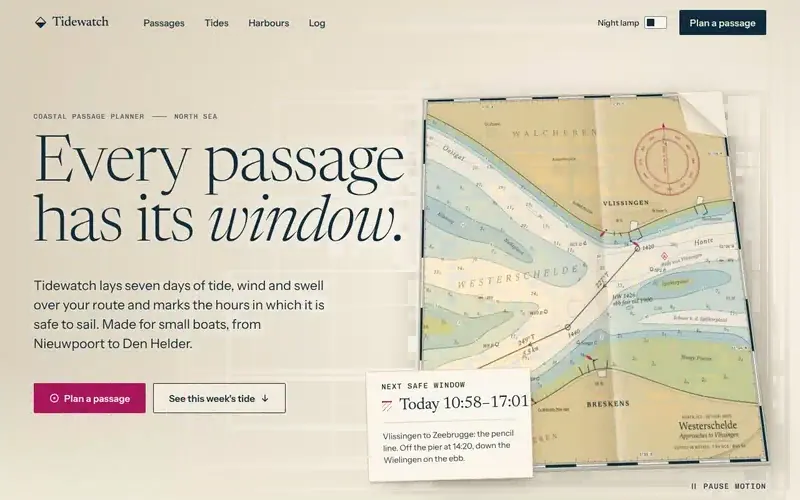
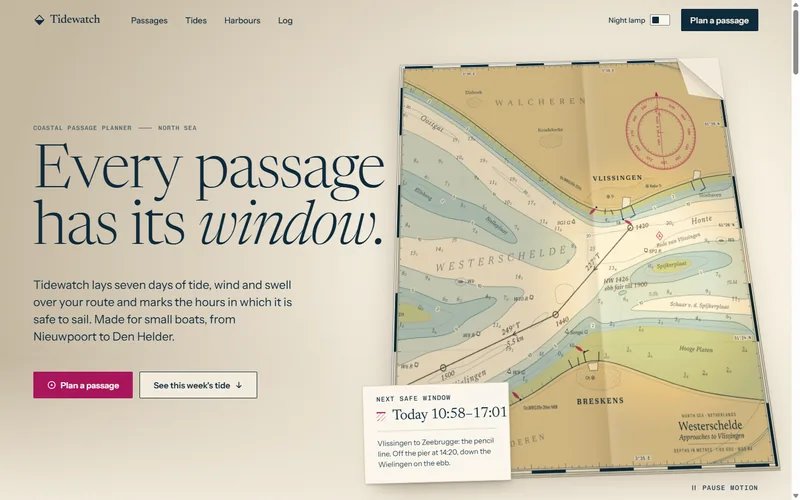
Level 3: a lamp you can see, a larger sheet that leans to the hand, the night re-inked
Judged on a real GPU (Radeon RX 9070 XT) in three rounds by two strict judges
(art director 5.5 -> 6.5 -> 7.0, owner 6.5 -> 7.0 -> 6.5).

- The day lamp has a pool with an edge (lit to 40 percent, a rim, then the room
  in shade), so it reads as a lamp, not a vignette; the words lose their pale halo.
- The sheet lies in front of the screen, so its near edge is wider than level 2's
  chart, and it is laid higher so the whole sheet stays in the window.
- The view leans toward the pointer (the desk's perspective origin on a spring,
  about 6 degrees); the slip moves against it as its own layer.
- At night the sheet is dim red paper with pale rose print: every name, sounding
  and the cartouche read anywhere on the sheet; the turned corner shows its red back.
- The phone keeps level 2's last sentence, second button and the slip's note;
  the sheet fits inside the screen; day labels keep their date only.
- No hard seam under the hero, no empty band above the week, a softer veil over
  the days to come, the lamp over the hour no longer a blob, a softer fold highlight.
- New GPU previews: level-3.webp and level-3-still.webp.

diff --git a/examples/levels/3/level.css b/examples/levels/3/level.css
@@ -295,7 +295,10 @@
   /* the sheet on the table, seen from the reader's chair */
   --l3-lay: 27deg;                              /* how far the sheet lies back */
   --l3-turn: -1.4deg;                           /* and how it lies turned: a sheet is never quite square */
-  --l3-sink: -28px;                             /* a little under the screen, so no part of it ever comes nearer */
+    /* the sheet lies a little in front of the screen: its near edge is then wider than level 2's flat chart,
+       so the first screen holds more chart, not less. The plates are drawn at --l3-k times their size, so
+       the small enlargement this gives stays sharp */
+    --l3-sink: 70px;
   --l3-eye: 1450px;                             /* how far the eye is from the screen */
   --l3-eye-at: 26% -46%;                        /* and where it is: left of the sheet, above the table */
   --l3-curl: 5.5rem;                            /* the corner that has turned up */
@@ -305,45 +308,77 @@
   /* the lamp. The sheet is multiplied by one light: warm cream in the pool, and outside it a step down to
      about the table's own brightness, so the sheet stays the lightest paper on the table; the middle of the
      pool is warmed (soft light), never bleached. By night: a dim, deep red pool, the rest faintly readable */
-  --l3-lit: #fff1d9;
-  --l3-rim: #fcefdc;
-  --l3-dim: #f0ebe2;
-  --l3-glow: rgba(255, 176, 84, 0.5);
-  --l3-table: rgba(255, 252, 244, 0.78);        /* the same lamp on the table round the sheet */
-  --l3-room: rgba(110, 84, 40, 0.16);           /* and the room outside its reach */
+    /* A lamp reads as a lamp, not as a vignette, because its pool has an edge: the shade cuts the light off.
+       So the pool is bright and warm right up to a rim, and past the rim the paper drops a clear step into
+       the room's shade (about 12 percent darker), not a slow fade. */
+    --l3-lit: #fff6e4;
+    --l3-rim: #f7e5c4;
+    --l3-dim: #e2d5bf;
+    --l3-glow: rgba(255, 170, 70, 0.62);
+    --l3-table: rgba(255, 249, 234, 0.85);      /* the same lamp on the table round the sheet */
+    --l3-room: rgba(96, 70, 30, 0.3);           /* and the room outside its reach: clearly in shade */
   --l3-cast: rgba(56, 38, 10, 0.3);             /* the sheet's shadow on the table */
   --l3-contact: rgba(56, 38, 10, 0.26);         /* where it touches the table */
   --l3-cut: #d6c8ab;                            /* the cut edge of the paper, towards the reader */
   --l3-back: #ece2cd;                           /* the back of the paper, on the turned-up corner */
   --l3-crease-dark: rgba(92, 66, 22, 0.12);     /* the fold: one side turned from the light */
-  --l3-crease-light: rgba(255, 255, 255, 0.5);  /* and one side towards it */
+    --l3-crease-light: rgba(255, 255, 255, 0.24); /* and one side towards it (at 0.5 it read as a white streak) */
   --l3-ink-2: #263b49;                          /* small print on paper: darker than --color-text-muted, so 12 px reads */
-  --l3-pool-c: rgba(255, 186, 96, 0.36);        /* the lamp over the hour the tide story reads */
+  --l3-pool-c: rgba(255, 186, 96, 0.2);         /* the lamp over the hour the tide story reads: a faint warmth, never a blob */
   --l3-glint: rgba(255, 186, 96, 0.5);          /* the lamp caught by a card under the hand */
   --l3-sheet: #fbf8f0;                          /* the tide sheet laid on the table */
   --l3-dusk: rgba(48, 30, 8, 0.34);             /* the dialog: the lamp turned down */
   --l3-dusk-2: rgba(36, 22, 4, 0.62);
 }
+/* By night the room outside the pool is kept a lighter red (dim #a88a7e, was #5e4740): the lamp adds light to
+   a dim sheet, it is not the only light. The turned-up corner shows the back of the paper in the red light
+   (#7a2c1a), not a black hole */
 @media (prefers-color-scheme: dark) {
   :root:not([data-theme="light"]) {
-    --l3-paper: #84260f; --l3-lit: #ffffff; --l3-rim: #d09c8b; --l3-dim: #5e4740; --l3-glow: rgba(255, 92, 52, 0.42);
+    --l3-paper: #8c2a12; --l3-lit: #ffffff; --l3-rim: #e2b2a2; --l3-dim: #a88a7e; --l3-glow: rgba(255, 92, 52, 0.42);
     --l3-table: rgba(150, 38, 14, 0.62); --l3-room: rgba(0, 0, 0, 0.32); --l3-cast: rgba(0, 0, 0, 0.62); --l3-contact: rgba(0, 0, 0, 0.7);
-    --l3-cut: #2a0d07; --l3-back: #3b150c; --l3-crease-dark: rgba(0, 0, 0, 0.2); --l3-crease-light: rgba(255, 150, 110, 0.06);
-    --l3-ink-2: #e2cdbf; --l3-pool-c: rgba(166, 45, 23, 0.5); --l3-glint: rgba(255, 106, 77, 0.16); --l3-sheet: #1a110e;
+    --l3-cut: #3a120a; --l3-back: #7a2c1a; --l3-crease-dark: rgba(0, 0, 0, 0.2); --l3-crease-light: rgba(255, 150, 110, 0.06);
+    --l3-ink-2: #e2cdbf; --l3-pool-c: rgba(166, 45, 23, 0.3); --l3-glint: rgba(255, 106, 77, 0.16); --l3-sheet: #1a110e;
     --l3-dusk: rgba(6, 2, 1, 0.66); --l3-dusk-2: rgba(2, 1, 0, 0.86);
   }
 }
 :root[data-theme="dark"] {
-  --l3-paper: #84260f; --l3-lit: #ffffff; --l3-rim: #d09c8b; --l3-dim: #5e4740; --l3-glow: rgba(255, 92, 52, 0.42);
+  --l3-paper: #8c2a12; --l3-lit: #ffffff; --l3-rim: #e2b2a2; --l3-dim: #a88a7e; --l3-glow: rgba(255, 92, 52, 0.42);
   --l3-table: rgba(150, 38, 14, 0.62); --l3-room: rgba(0, 0, 0, 0.32); --l3-cast: rgba(0, 0, 0, 0.62); --l3-contact: rgba(0, 0, 0, 0.7);
-  --l3-cut: #2a0d07; --l3-back: #3b150c; --l3-crease-dark: rgba(0, 0, 0, 0.2); --l3-crease-light: rgba(255, 150, 110, 0.06);
-  --l3-ink-2: #e2cdbf; --l3-pool-c: rgba(166, 45, 23, 0.5); --l3-glint: rgba(255, 106, 77, 0.16); --l3-sheet: #1a110e;
+  --l3-cut: #3a120a; --l3-back: #7a2c1a; --l3-crease-dark: rgba(0, 0, 0, 0.2); --l3-crease-light: rgba(255, 150, 110, 0.06);
+  --l3-ink-2: #e2cdbf; --l3-pool-c: rgba(166, 45, 23, 0.3); --l3-glint: rgba(255, 106, 77, 0.16); --l3-sheet: #1a110e;
   --l3-dusk: rgba(6, 2, 1, 0.66); --l3-dusk-2: rgba(2, 1, 0, 0.86);
 }
+/* The sheet by night, re-inked. Dark ink on a red sheet only reads where the lamp is brightest; outside the
+   pool it sank into the paper. So at night the sheet is a dim red paper and its print is pale rose, as a
+   chart's light print shows under a red lamp: every word reads anywhere on the sheet, and the lamp's pool
+   is the brighter red that lights the paper under it. Only on the sheet: the rest of the page keeps its tokens. */
+:root[data-theme="dark"] .sheet {
+    --l3-paper: #5c1a0c; --l3-dim: #9a7a6e; --l3-rim: #e8c0b0;
+    --color-chart-ink: #f3cdbf; --color-chart-contour: #e09a84; --color-chart-edge: #e6a892;
+    --color-chart-pencil: #fff0e6; --color-chart-magenta: #ff9c7e;
+}
+@media (prefers-color-scheme: dark) {
+    :root:not([data-theme="light"]) .sheet {
+        --l3-paper: #5c1a0c; --l3-dim: #9a7a6e; --l3-rim: #e8c0b0;
+        --color-chart-ink: #f3cdbf; --color-chart-contour: #e09a84; --color-chart-edge: #e6a892;
+        --color-chart-pencil: #fff0e6; --color-chart-magenta: #ff9c7e;
+    }
+}
+
+/* the space between "Today" and the week: the section's own padding is enough; the pinned stage and its head
+   no longer add theirs on top (together they left an empty band of 170 px above the week) */
+.tides:has(.story.is-live) { padding-top: var(--space-6); }
+.story.is-live .story__stage { padding-top: 0; }
 
 /* ---- the chart as a sheet of paper lying on the table under the lamp ---------------------------------- */
 .hero::after { display: none; }               /* level 2's lamp is a fixed glow; this one hangs over the sheet */
-.hero::before { background: radial-gradient(75% 95% at 74% 52%, transparent 35%, var(--l3-room) 100%); }
+.hero::before {
+    background: radial-gradient(75% 95% at 74% 52%, transparent 35%, var(--l3-room) 100%);
+    /* the room's shade fades out before the hero ends, so the page below never starts at a hard seam */
+    -webkit-mask-image: linear-gradient(to bottom, #000 72%, transparent 100%);
+    mask-image: linear-gradient(to bottom, #000 72%, transparent 100%);
+}
 .hero__scene { overflow: visible; -webkit-mask-image: none; mask-image: none; container-type: size; }
 .hero__scene::after { display: none; }        /* level 2's fold lies on the screen; this one lies in the paper */
 .desk { position: absolute; inset: 0; perspective: var(--l3-eye); perspective-origin: var(--l3-eye-at); pointer-events: none; }
@@ -393,7 +428,9 @@
 }
 .sheet__lamp {
   mix-blend-mode: multiply;
-  background: radial-gradient(ellipse 22% 21% at 50% 50%, var(--l3-lit) 0%, var(--l3-lit) 28%, var(--l3-rim) 54%, var(--l3-dim) 84%) var(--l3-dim);
+    /* the pool holds its light out to about half its radius, then the shade's rim brings it down over a
+       short band (54 to 80 percent): the edge you can point at, which makes it a lamp */
+    background: radial-gradient(ellipse 22% 21% at 50% 50%, var(--l3-lit) 0%, var(--l3-lit) 40%, var(--l3-rim) 60%, var(--l3-dim) 80%) var(--l3-dim);
 }
 .sheet__glow {
   mix-blend-mode: soft-light;
@@ -484,8 +521,15 @@
 /* where the sheet lies: on a wide screen right of the words, its near edge along the foot of the hero */
 @media (min-width: 60.0625rem) {
   /* it starts right of the headline, so the words never run over its edge */
+    /* base.css gives the words a halo of page colour, for a chart that runs under them. Here the sheet stays
+       right of the words, and the room round the lamp is a shade darker than the page, so that halo would
+       show as a pale glow round every letter: off */
+    .hero h1, .lead { text-shadow: none; }
   .hero__scene {
     top: calc(var(--size-header) + var(--space-5)); bottom: var(--space-6);
+      /* the sheet lies in front of the screen (--l3-sink), so its near edge comes lower than the scene's foot:
+         it is laid this far up, so the whole sheet and the "Pause motion" line under it stay in the window */
+      --l3-bottom: 4.25rem;
     left: calc(max(var(--size-gutter), (100% - var(--size-content)) / 2) + var(--text-display) * 5.9 + var(--space-3));
     right: calc(max(var(--size-gutter), (100% - var(--size-content)) / 2) - var(--space-4));
   }
@@ -500,7 +544,8 @@
 /* on a phone the words are shorter and keep one button (the header has the other). The page marks a phone
    as html.is-narrow (before the first paint, and again when the width changes), because a width rule here
    is also matched for a moment while Chromium takes a full-page picture, which then lost the second button */
-html.is-narrow :is(.lead__more, .hero__actions .btn--line) { display: none; }
+/* (Level 3 used to drop the last sentence and the second button on a phone. A level keeps everything of the
+   level below, and level 2 shows both, so they stay; the sheet lies below them.) */
 
 /* ---- one control stops what moves by itself (the lamp's swing, the cards' lean): WCAG 2.2.2. The page
    keeps the choice (the scene kit's key, so the whole gallery follows it) ---- */
@@ -541,9 +586,10 @@ html.is-narrow :is(.lead__more, .hero__actions .btn--line) { display: none; }
 /* ---- the week, told as you scroll. level.js marks the story .is-live (motion on, script running, the table
    closed), pins its stage, walks a cursor through the week and writes which day is current; without it the
    steps are a list. The heading, the note and the table button stay with the week while it is pinned. ---- */
-:root { --color-veil: rgba(251, 248, 240, 0.78); }
-@media (prefers-color-scheme: dark) { :root:not([data-theme="light"]) { --color-veil: rgba(13, 7, 6, 0.8); } }
-:root[data-theme="dark"] { --color-veil: rgba(13, 7, 6, 0.8); }
+/* the days still to come lie under a veil that leaves them as a faint pencil line, still readable as data (at 0.78 / 0.8 they read as missing) */
+:root { --color-veil: rgba(251, 248, 240, 0.6); }
+@media (prefers-color-scheme: dark) { :root:not([data-theme="light"]) { --color-veil: rgba(13, 7, 6, 0.58); } }
+:root[data-theme="dark"] { --color-veil: rgba(13, 7, 6, 0.58); }
 
 .tt { margin: 0 0 var(--space-7); }
 /* the week is a sheet of chart paper on the table: a neat line, a soft shadow, the lamp over the hour */
@@ -566,7 +612,9 @@ html.is-narrow :is(.lead__more, .hero__actions .btn--line) { display: none; }
 
 .story.is-live { height: calc(100vh + 7 * 40vh); height: calc(100svh + 7 * 40svh); }
 .story.is-live .story__stage {
-  position: sticky; top: 0; display: grid; align-content: center; height: 100vh; height: 100svh; padding-block: var(--space-4);
+    /* the stage starts at its top, not centred: centred, it left an empty band of half a screen between
+       "Today at Vlissingen" and the week before the stage was pinned */
+    position: sticky; top: 0; display: grid; align-content: start; height: 100vh; height: 100svh; padding-block: var(--space-4);
 }
 .story.is-live .section__head { margin-bottom: var(--space-4); padding-top: var(--space-4); }
 .story.is-live .tides__bar { align-items: center; margin-bottom: var(--space-5); }
@@ -593,7 +641,7 @@ html.is-narrow :is(.lead__more, .hero__actions .btn--line) { display: none; }
 .story.is-live .tide__veil { display: block; position: absolute; inset: 0; overflow: hidden; pointer-events: none; }
 .tide__shade, .tide__pool { position: absolute; top: 0; bottom: 0; left: 0; will-change: transform; }
 .tide__shade { width: 200%; background: linear-gradient(to right, transparent 0 50%, var(--color-veil) 53%, var(--color-veil)); }
-.tide__pool { width: 34%; margin-left: -17%; background: radial-gradient(closest-side, var(--l3-pool-c), color-mix(in oklab, var(--l3-pool-c), transparent 62%) 52%, transparent); }
+.tide__pool { width: 18%; margin-left: -9%; background: radial-gradient(closest-side, var(--l3-pool-c), color-mix(in oklab, var(--l3-pool-c), transparent 62%) 52%, transparent); }
 .tide__read.is-flipped { left: auto; right: var(--space-1); }
 .story.is-live .tide__days span[data-current] { font-weight: 700; }
 .story.is-live .tide__cursor { display: block; position: absolute; top: 0; bottom: 0; left: 0; width: 0; border-left: var(--size-border) solid var(--color-text); pointer-events: none; will-change: transform; }
@@ -729,7 +777,7 @@ html.is-narrow :is(.lead__more, .hero__actions .btn--line) { display: none; }
   .hero__scene { inset: auto 0 0 0; height: var(--l3-reveal); --l3-height: 31rem; --l3-right: max(var(--size-gutter), 50% - 16rem); --l3-bottom: var(--space-4); }
   .hero__slip { display: block; left: max(var(--size-gutter), 50% - 18rem); bottom: var(--space-7); width: 13.75rem; padding: var(--space-3) var(--space-4) var(--space-4); }
   .hero__slip-time { font-size: var(--text-md); gap: var(--space-2); }
-  .hero__slip-note { display: none; }
+    /* the slip keeps its note, as level 2's does: what the pencil line is */
   .hero__print {
     display: block; position: absolute; left: 0; top: 0; z-index: 0; width: 100%; height: calc(100% - var(--l3-reveal) + var(--space-7)); pointer-events: none;
     -webkit-mask-image: linear-gradient(to bottom, transparent 6%, #000 34%, #000 62%, transparent 96%); mask-image: linear-gradient(to bottom, transparent 6%, #000 34%, #000 62%, transparent 96%);
@@ -755,10 +803,13 @@ html.is-narrow :is(.lead__more, .hero__actions .btn--line) { display: none; }
   .hero h1 { margin-top: var(--space-4); }
   .lead { margin-top: var(--space-4); }
   .hero__actions { margin-top: var(--space-5); }
-  .hero__scene { --l3-height: 27rem; --l3-right: calc(var(--size-gutter) + var(--space-1)); --l3-bottom: var(--space-6); }
+    /* 24.5rem tall: the sheet runs nearly from edge to edge, both edges in view (27rem ran off the left edge) */
+  .hero__scene { --l3-height: 24.5rem; --l3-right: var(--space-3); --l3-bottom: var(--space-6); }
   .hero__slip { left: auto; right: var(--space-2); bottom: var(--space-5); width: 12rem; padding: var(--space-2) var(--space-3) var(--space-3); }
   .hero__slip-label { font-size: 0.6875rem; }
   .hero__slip-time { font-size: var(--text-base); }
+    /* the note in small print, so the slip covers less of the chart on a phone */
+    .hero__slip-note { margin-top: var(--space-2); padding-top: var(--space-2); font-size: 0.8125rem; line-height: 1.35; }
   .motion { right: auto; left: calc(var(--space-3) * -1); }
   .story__day { margin-left: var(--tide-gutter, var(--space-5)); }
   .step { grid-template-columns: minmax(0, 1fr); gap: var(--space-1); }
@@ -768,6 +819,9 @@ html.is-narrow :is(.lead__more, .hero__actions .btn--line) { display: none; }
   .story.is-live .tides__bar { margin-bottom: var(--space-3); }
   .story.is-live .story__now b { font-size: var(--text-lg); }
   .story.is-live .tide__legend { gap: var(--space-1) var(--space-4); font-size: 0.75rem; }
+    /* seven days in 330 px: "Tue 10 (moon)" ran into "Wed 11". On a phone each column keeps its date only;
+       the caption above says which day it is ("Wed 11, day 2 of 7") */
+    .story.is-live .tide__days b, .story.is-live .tide__days .moon { display: none; }
   .story.is-live .step__day b { font-size: var(--text-2xl); }
   .story.is-live .step__line { margin-top: var(--space-2); font-size: var(--text-sm); }
   .story.is-live .story__rule { margin-top: var(--space-4); }

diff --git a/examples/levels/3/level.js b/examples/levels/3/level.js
@@ -257,6 +257,10 @@
     /* what follows the hand and the page, each on a spring of its own */
     function S(v) { return { v: v, d: 0, t: v }; }
     var pool = { x: S(0), y: S(0) }, page = S(0);
+        /* the reader leans over the table toward the hand: the eye (the desk's perspective origin) moves a
+           little toward the pointer, so the whole sheet, its turned corner and its relief of plates are seen
+           from that side, about 6 degrees at the most. The slip lies above the sheet and moves the other way */
+        var lean = { x: S(0), y: S(0) };
     var hand = null, frame = 0, last = 0, size = null, map = null, laid = !moving(), near = true, swings = [];
 
     function measure() {
@@ -264,6 +268,12 @@
       size = { w: w, h: h, s: s, ox: w - 1000 * s, oy: h - 900 * s, k: parseFloat(getComputedStyle(root).getPropertyValue("--l3-k")) || 1,
         top: hero.getBoundingClientRect().top + window.scrollY, tall: hero.offsetHeight,
         dx: d.left + window.scrollX, dy: d.top + window.scrollY };
+        /* where the eye rests, as the CSS puts it (the inline lean is cleared first, so it is read clean) */
+        desk.style.perspectiveOrigin = "";
+        var po = getComputedStyle(desk).perspectiveOrigin.split(" ").map(parseFloat);
+        size.po = po.length === 2 && isFinite(po[0]) && isFinite(po[1]) ? po : null;
+        size.dw = d.width;
+        size.dh = d.height;
     }
     function onSheet(x, y) { return { x: size.ox + x * size.s, y: size.oy + y * size.s }; }
     /* nobody pointing: the lamp rests on the pencil line, just past the 14:20 fix, and walks on down it
@@ -337,6 +347,15 @@
       if (!at) at = rest(page.t);
       pool.x.t = clamp(at.x, size.w * 0.04, size.w * 0.96);
       pool.y.t = clamp(at.y, size.h * 0.04, size.h * 0.96);
+        /* the lean: where the hand is in the hero, -1 to 1 each way; none without a hand or with less motion */
+        var hb = hero.getBoundingClientRect();
+        if (hand && !reduce.matches && !paused() && hb.width && hb.height) {
+            lean.x.t = clamp((hand.x - hb.left - hb.width / 2) / (hb.width / 2), -1, 1);
+            lean.y.t = clamp((hand.y - hb.top - hb.height / 2) / (hb.height / 2), -1, 1);
+        } else {
+            lean.x.t = 0;
+            lean.y.t = 0;
+        }
     }
     function draw() {
       var x = pool.x.v, y = pool.y.v, at = "translate3d(" + x.toFixed(1) + "px, " + y.toFixed(1) + "px, 0)", k = 1 / size.k;
@@ -352,9 +371,20 @@
         var p = map.place(x / size.w, y / size.h);
         table.style.transform = "translate3d(" + (p.x - size.dx).toFixed(1) + "px, " + (p.y - size.dy).toFixed(1) + "px, 0)";
       }
-      if (slip) slip.style.translate = page.v > 0.001 ? "0 " + (-(fine.matches ? 130 : 24) * page.v).toFixed(1) + "px" : "";
+        /* the eye moves toward the hand: up to 70 percent of the desk across and 45 percent along it (about 6 degrees of view) */
+        if (size.po) {
+            var lx = lean.x.v, ly = lean.y.v;
+            desk.style.perspectiveOrigin = Math.abs(lx) + Math.abs(ly) < 0.001 ? ""
+                : (size.po[0] + lx * size.dw * 0.7).toFixed(1) + "px " + (size.po[1] + ly * size.dh * 0.45).toFixed(1) + "px";
+        }
+        /* the slip rises as the page leaves (more on a wide screen, so the layers part by 48 px or more; 60 on
+           a phone, past the 24 the level asks for), and lies above the sheet: it moves against the lean */
+        if (slip) {
+            var sy = page.v > 0.001 ? -(fine.matches ? 130 : 60) * page.v : 0, sxl = -lean.x.v * 14, syl = -lean.y.v * 8;
+            slip.style.translate = Math.abs(sy) + Math.abs(sxl) + Math.abs(syl) > 0.05 ? sxl.toFixed(1) + "px " + (sy + syl).toFixed(1) + "px" : "";
+        }
     }
-    function settle() { [pool.x, pool.y, page].forEach(function (s) { s.v = s.t; s.d = 0; }); }
+    function settle() { [pool.x, pool.y, page, lean.x, lean.y].forEach(function (s) { s.v = s.t; s.d = 0; }); }
     /* the loop runs only while the hand or the page moves the lamp, and sleeps after */
     function tick(now) {
       frame = 0;
@@ -365,7 +395,8 @@
       last = now;
       /* the lamp follows the hand a little late and a little past, as a hanging thing does; the page's own
          scroll is followed closely */
-      [[pool.x, 6, 0.7], [pool.y, 6, 0.7], [page, 14, 1]].forEach(function (e) {
+      /* the lean follows more slowly and settles without overshoot: a reader's head, not a swinging lamp */
+      [[pool.x, 6, 0.7], [pool.y, 6, 0.7], [page, 14, 1], [lean.x, 3.2, 0.9], [lean.y, 3.2, 0.9]].forEach(function (e) {
         var s = e[0], w = e[1], z = e[2];
         s.d += (w * w * (s.t - s.v) - 2 * z * w * s.d) * dt;
         s.v += s.d * dt;
